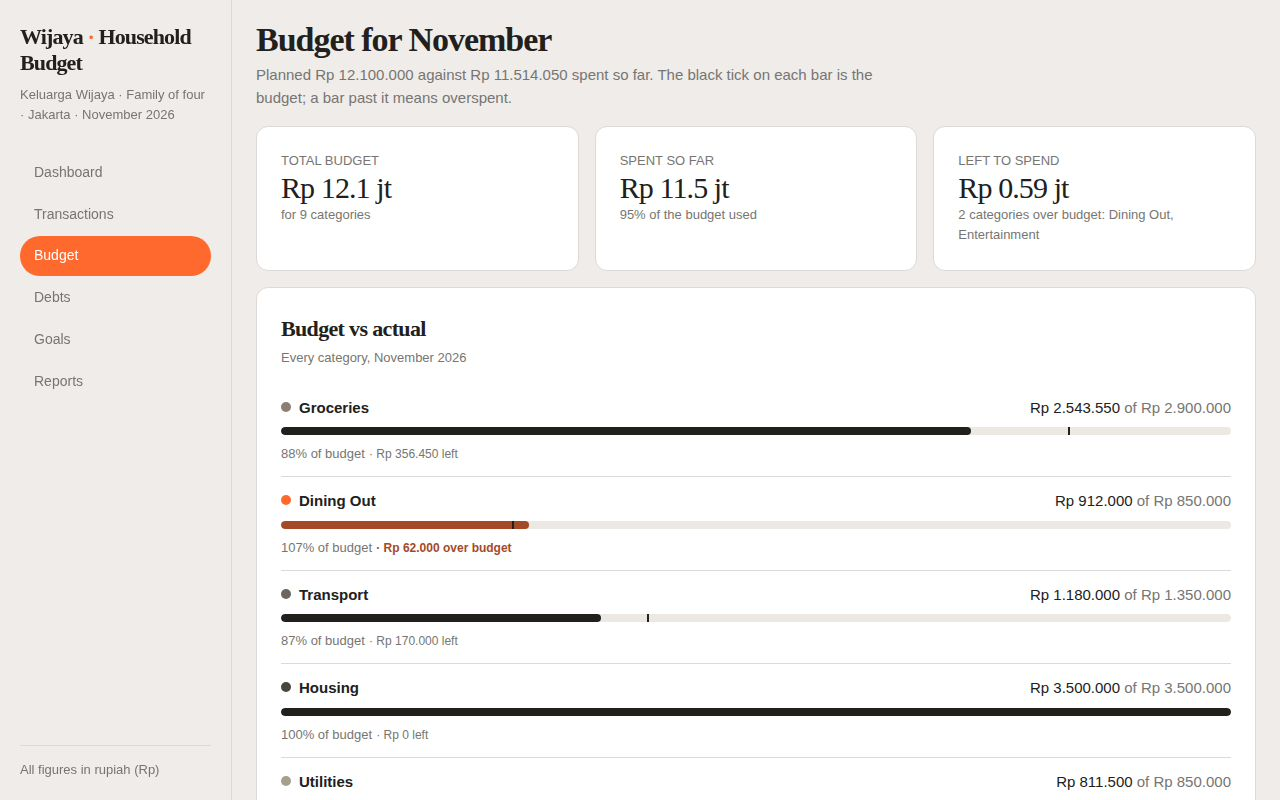
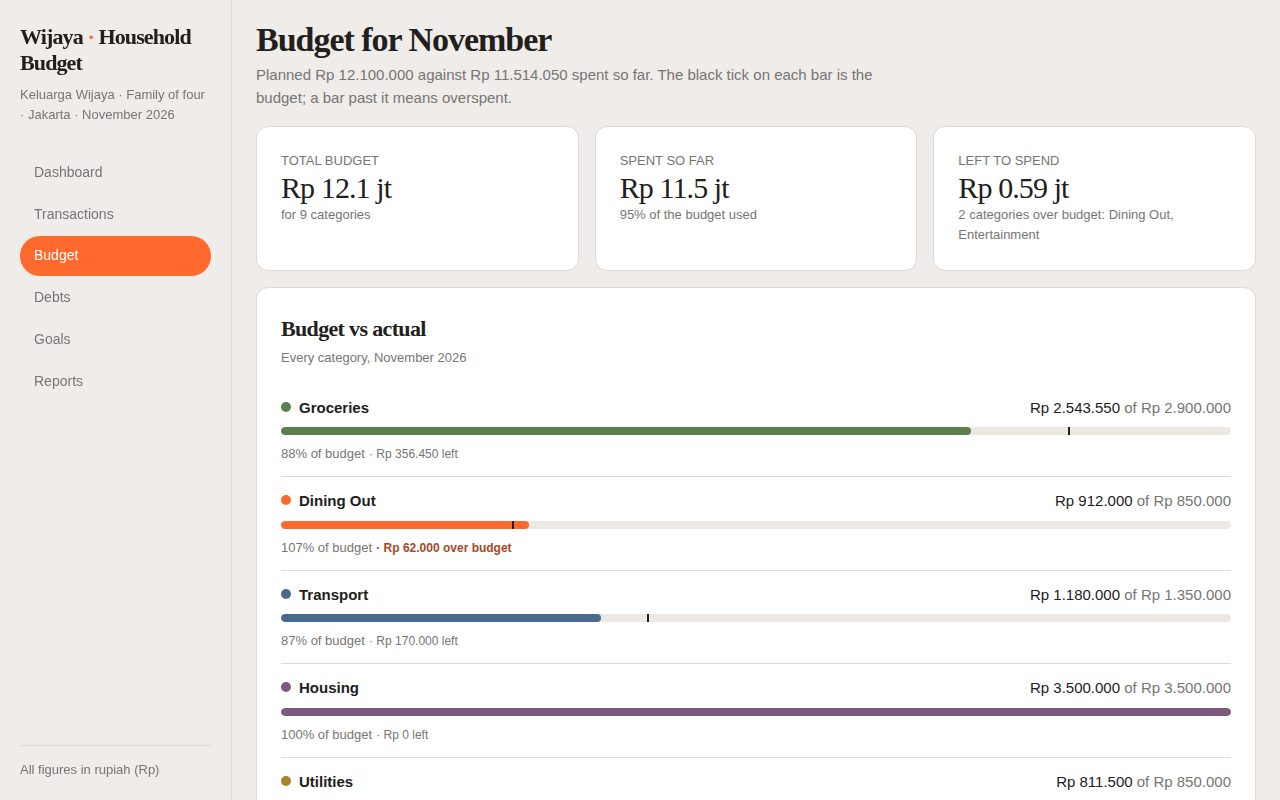
Give each category its own muted hue so they are easy to tell apart (donut, dots, budget bars) (#3)
* Give each category its own muted hue so they are easy to tell apart (donut, dots, budget bars)

* Give each category its own muted hue so they are easy to tell apart (donut, dots, budget bars)

diff --git a/app/data.js b/app/data.js
@@ -29,18 +29,20 @@ export const DATA = {
     { name: "GoPay wallet", balance: 1000000 },
   ],
 
-  // Budget per category for November. Colours stay warm monochrome; only
-  // Dining Out takes the Ember accent, as the month's hero category.
+  // Budget per category for November. Each category has its own muted
+  // hue so it is easy to tell apart at a glance in the donut, the dots
+  // and the budget bars; Dining Out keeps the Ember accent, as the
+  // month's hero category. This is the single source of category colour.
   categories: [
-    { id: "groceries", name: "Groceries", budget: 2900000, color: "#8a7f72" },
+    { id: "groceries", name: "Groceries", budget: 2900000, color: "#5c7f4e" },
     { id: "dining", name: "Dining Out", budget: 850000, color: "#ff692d" },
-    { id: "transport", name: "Transport", budget: 1350000, color: "#6b655e" },
-    { id: "housing", name: "Housing", budget: 3500000, color: "#4a453f" },
-    { id: "utilities", name: "Utilities", budget: 850000, color: "#a89e90" },
-    { id: "kids", name: "Kids & School", budget: 1050000, color: "#7d7468" },
-    { id: "health", name: "Health", budget: 450000, color: "#b3a89a" },
-    { id: "entertainment", name: "Entertainment", budget: 550000, color: "#5c564e" },
-    { id: "shopping", name: "Shopping", budget: 600000, color: "#96897a" },
+    { id: "transport", name: "Transport", budget: 1350000, color: "#4a6a8c" },
+    { id: "housing", name: "Housing", budget: 3500000, color: "#7e5a82" },
+    { id: "utilities", name: "Utilities", budget: 850000, color: "#a8842c" },
+    { id: "kids", name: "Kids & School", budget: 1050000, color: "#b25e6e" },
+    { id: "health", name: "Health", budget: 450000, color: "#2f7f7a" },
+    { id: "entertainment", name: "Entertainment", budget: 550000, color: "#6a5ca6" },
+    { id: "shopping", name: "Shopping", budget: 600000, color: "#6e4a2e" },
   ],
 
   // Every transaction of November 2026, newest last. "type" is "in" for money

diff --git a/app/views.js b/app/views.js
@@ -87,7 +87,7 @@ export function renderDashboard(state) {
       ${topBudgets.map((r) => {
         const pct = Math.round((r.actual / r.budget) * 100);
         return `<div class="budget-row"><div class="row-top"><span><span class="cat-dot" style="background:${r.color}"></span>${r.name}</span><span class="pct">${pct}%</span></div>
-        <div class="bar-line"><div class="bar-track"><div class="bar-fill ${r.actual > r.budget ? "over" : ""}" style="width:${Math.min(100, pct)}%"></div></div>
+        <div class="bar-line"><div class="bar-track"><div class="bar-fill" style="width:${Math.min(100, pct)}%;background:${r.color}"></div></div>
         <span class="small muted fig">${fmt(r.actual)} of ${fmt(r.budget)}</span></div></div>`;
       }).join("")}
       <p class="small" style="margin-top:12px"><a href="#/budget">Open the full budget →</a></p>

diff --git a/app/charts.js b/app/charts.js
@@ -40,7 +40,7 @@ export function budgetBars(rows) {
       <span class="num">${fmt(r.actual)} <span class="muted">of ${fmt(r.budget)}</span></span></div>
       <div style="position:relative;margin-top:8px">
         <div class="bar-track" style="position:relative">
-          <div class="bar-fill ${over ? "over" : ""}" style="width:${width}%"></div>
+          <div class="bar-fill" style="width:${width}%;background:${r.color}"></div>
           <div style="position:absolute;top:-3px;left:${budgetWidth}%;width:2px;height:14px;background:#22201d"></div>
         </div>
       </div>

diff --git a/app/style.css b/app/style.css
@@ -89,7 +89,6 @@ nav.main a.active:hover { color: #fff; }
 /* ---- Bars, donuts, lists ---- */
 .bar-track { background: #ece8e3; border-radius: 9999px; height: 8px; overflow: hidden; }
 .bar-fill { height: 100%; border-radius: 9999px; background: var(--ink); }
-.bar-fill.over { background: var(--warn); }
 .bar-fill.ember { background: var(--ember); }
 .budget-row { padding: 12px 0; border-top: 1px solid var(--stone); }
 .budget-row:first-of-type { border-top: 0; }
